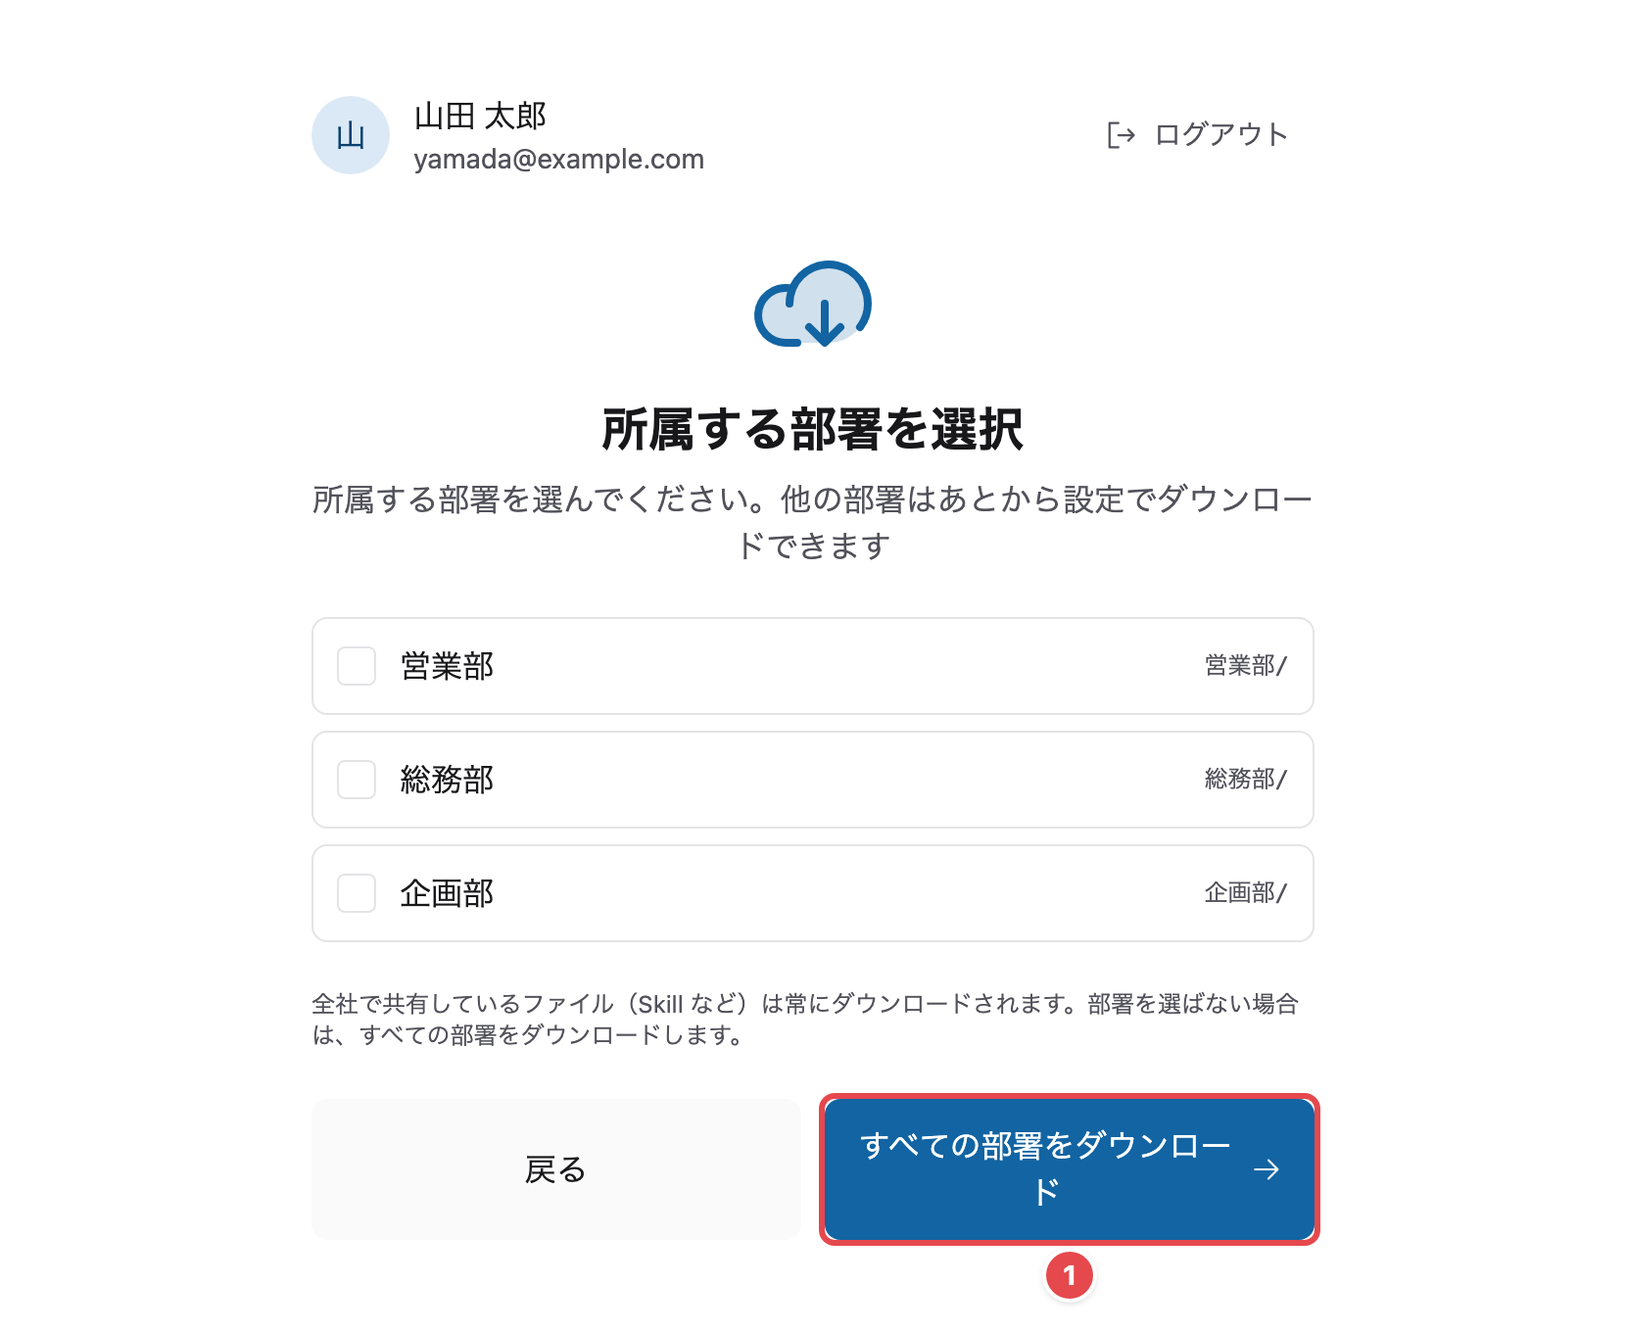
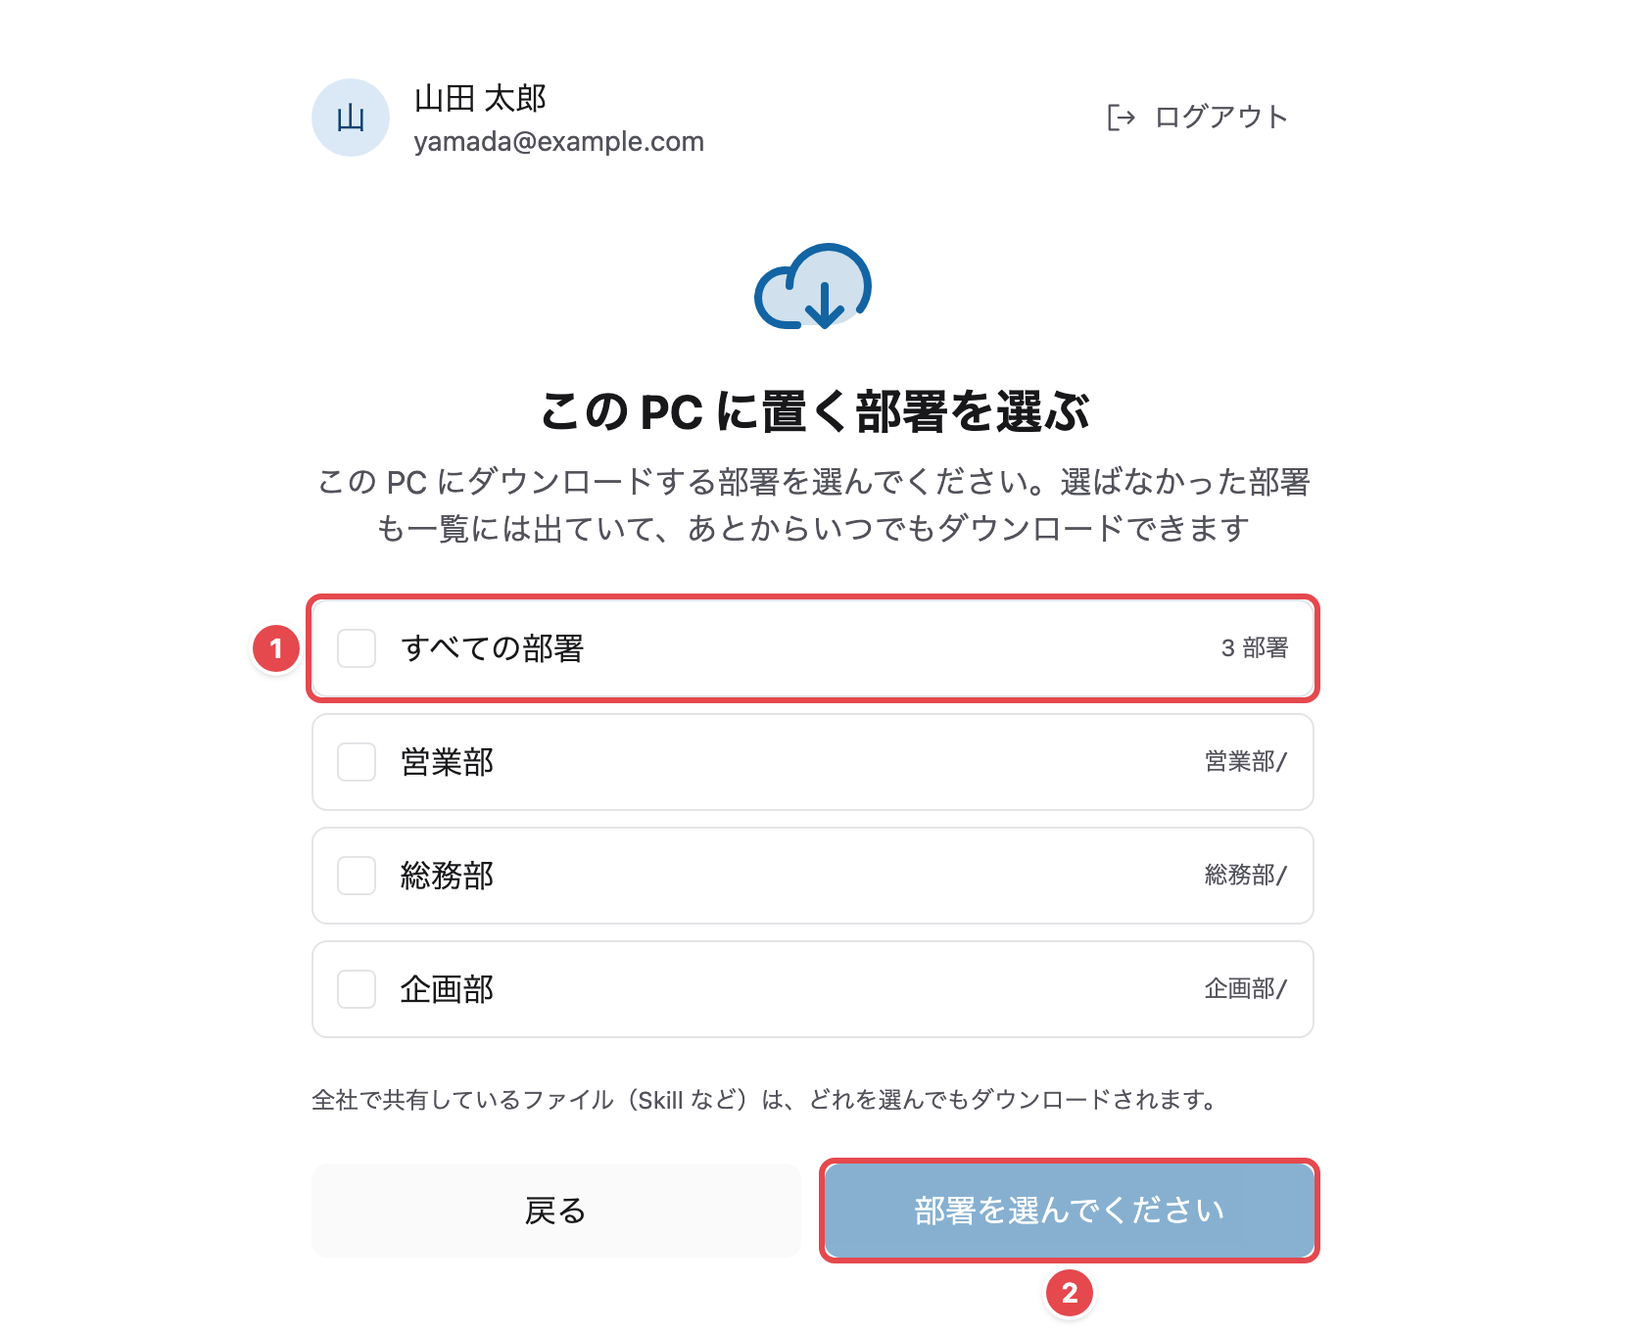
fix(company): the first setup asks which departments to put on this PC; すべて is an explicit choice, nothing chosen never means everything
Claude-Session: https://claude.ai/code/session_012UHLwU9BSxnqtSHxSVziux

diff --git a/client/src/features/company/components/DepartmentPicker.tsx b/client/src/features/company/components/DepartmentPicker.tsx
@@ -1,61 +1,38 @@
 import { useState } from 'react'
 import { ArrowRight, Check, CloudArrowDown } from '@phosphor-icons/react'
-import type { PickableDepartment } from '../model'
+import { NOTHING_PICKED, pickedDownload, togglePick, type DepartmentPick, type PickableDepartment } from '../model'
 import { BACK_BUTTON, ScreenHeading } from './SelectorParts'
 
 /**
- * Which departments a first setup downloads; the rest can be added later in
- * settings. Rendered only while shown, so every visit starts with none picked.
+ * Which departments a first setup puts on this PC; the rest can be added later. 「すべての部署」 is a
+ * choice of its own: with nothing chosen the button waits (never 「すべて」 by itself). Rendered only
+ * while shown, so every visit starts with nothing chosen.
  */
 export function DepartmentPicker({ departments, onBack, onDownload }: {
   departments: PickableDepartment[]
   onBack: () => void
-  /** The picked folders in the list's order; none picked = everything. */
-  onDownload: (folders: string[]) => void
+  /** 'all' = every department; else the chosen folders in the list's order. */
+  onDownload: (folders: 'all' | string[]) => void
 }) {
-  const [picked, setPicked] = useState<Set<string>>(() => new Set())
-
-  function toggle(folder: string) {
-    setPicked(prev => {
-      const next = new Set(prev)
-      if (next.has(folder)) next.delete(folder)
-      else next.add(folder)
-      return next
-    })
-  }
+  const [pick, setPick] = useState<DepartmentPick>(NOTHING_PICKED)
+  const download = pickedDownload(departments, pick)
 
   return (
     <div className="space-y-6">
-      <ScreenHeading icon={CloudArrowDown} title="所属する部署を選択">
-        所属する部署を選んでください。他の部署はあとから設定でダウンロードできます
+      <ScreenHeading icon={CloudArrowDown} title="この PC に置く部署を選ぶ">
+        この PC にダウンロードする部署を選んでください。選ばなかった部署も一覧には出ていて、あとからいつでもダウンロードできます
       </ScreenHeading>
 
-      <div className="space-y-2 max-h-80 overflow-y-auto">
-        {departments.map(dept => {
-          const isPicked = picked.has(dept.folder)
-          return (
-            <button
-              key={dept.id}
-              onClick={() => toggle(dept.folder)}
-              aria-pressed={isPicked}
-              className={`w-full flex items-center gap-3 p-3 rounded-control border transition-colors text-left ${
-                isPicked ? 'border-primary bg-selected-bg' : 'border-[color:var(--color-border)] hover:border-selected-border'
-              }`}
-            >
-              <div className={`w-5 h-5 rounded-small border flex items-center justify-center flex-shrink-0 ${
-                isPicked ? 'bg-primary border-primary' : 'border-[color:var(--color-border)]'
-              }`}>
-                {isPicked && <Check size={14} className="text-on-primary" weight="bold" />}
-              </div>
-              <span className="flex-1 text-text">{dept.name}</span>
-              <span className="text-xs text-text-muted font-mono">{dept.folder}/</span>
-            </button>
-          )
-        })}
+      <div role="group" aria-label="この PC に置く部署" className="space-y-2 max-h-80 overflow-y-auto">
+        <Option label="すべての部署" detail={`${departments.length} 部署`} picked={pick.all} onPress={() => setPick(p => togglePick(p, 'all'))} />
+        {departments.map(dept => (
+          <Option key={dept.id} label={dept.name} detail={`${dept.folder}/`} mono picked={!pick.all && pick.folders.has(dept.folder)}
+            onPress={() => setPick(p => togglePick(p, dept.folder))} />
+        ))}
       </div>
 
       <p className="text-xs text-text-muted">
-        全社で共有しているファイル（Skill など）は常にダウンロードされます。部署を選ばない場合は、すべての部署をダウンロードします。
+        全社で共有しているファイル（Skill など）は、どれを選んでもダウンロードされます。
       </p>
 
       <div className="flex gap-3">
@@ -63,15 +40,37 @@ export function DepartmentPicker({ departments, onBack, onDownload }: {
           戻る
         </button>
         <button
-          onClick={() => onDownload(departments.map(d => d.folder).filter(f => picked.has(f)))}
-          className="flex-1 flex items-center justify-center gap-2 bg-primary hover:bg-primary-hover text-on-primary rounded-control px-4 py-3 transition-colors"
+          disabled={download === null}
+          onClick={() => { if (download !== null) onDownload(download) }}
+          className="flex-1 flex items-center justify-center gap-2 bg-primary enabled:hover:bg-primary-hover text-on-primary rounded-control px-4 py-3 transition-colors disabled:opacity-disabled disabled:cursor-not-allowed"
         >
-          {picked.size > 0
-            ? `選んだ部署をダウンロード（${picked.size}）`
-            : 'すべての部署をダウンロード'}
-          <ArrowRight size={18} />
+          {download === 'all' ? 'すべての部署をダウンロード'
+            : download ? `選んだ部署をダウンロード（${download.length}）`
+            : '部署を選んでください'}
+          {download !== null && <ArrowRight size={18} />}
         </button>
       </div>
     </div>
+  )
+}
+
+function Option({ label, detail, mono, picked, onPress }: { label: string; detail: string; mono?: boolean; picked: boolean; onPress: () => void }) {
+  return (
+    <button
+      type="button"
+      onClick={onPress}
+      aria-pressed={picked}
+      className={`w-full flex items-center gap-3 p-3 rounded-control border transition-colors text-left ${
+        picked ? 'border-primary bg-selected-bg' : 'border-[color:var(--color-border)] hover:border-selected-border'
+      }`}
+    >
+      <div className={`w-5 h-5 rounded-small border flex items-center justify-center flex-shrink-0 ${
+        picked ? 'bg-primary border-primary' : 'border-[color:var(--color-border)]'
+      }`}>
+        {picked && <Check size={14} className="text-on-primary" weight="bold" />}
+      </div>
+      <span className="flex-1 text-text">{label}</span>
+      <span className={`text-xs text-text-muted ${mono ? 'font-mono' : ''}`}>{detail}</span>
+    </button>
   )
 }

diff --git a/client/tests/manual/scenes.ts b/client/tests/manual/scenes.ts
@@ -337,7 +337,7 @@ export const scenes: Scene[] = [
   // ── 3章 自分の部署を選ぶ ─────────────────────────────────────────────────
   {
     id: 'setup-department-picker',
-    about: '「所属する部署を選択」 with 営業部 checked and the download button.',
+    about: '「この PC に置く部署を選ぶ」 with 営業部 checked and the download button.',
     ...SELECTOR,
     steps: [
       { click: 'role=button[name=/^検証A社/]' },
@@ -347,23 +347,26 @@ export const scenes: Scene[] = [
       { click: 'role=button[name=/^営業部/]' },
     ],
     annotations: [
-      { marker: { target: 'text=所属する部署を選んでください', label: '1', at: 'left' } },
+      { marker: { target: 'text=この PC にダウンロードする部署を選んでください', label: '1', at: 'left' } },
       { box: 'role=button[name=/^営業部/]' }, { marker: { target: 'role=button[name=/^営業部/]', label: '2', at: 'left' } },
       { box: 'role=button[name=/^選んだ部署をダウンロード/]' }, { marker: { target: 'role=button[name=/^選んだ部署をダウンロード/]', label: '3', at: 'below' } },
     ],
   },
   {
     id: 'setup-department-none',
-    about: 'Nothing checked: the button says すべての部署をダウンロード.',
+    about: 'Nothing chosen: 「すべての部署」 is a choice of its own, and the button waits (「部署を選んでください」).',
     ...SELECTOR,
     steps: [
       { click: 'role=button[name=/^検証A社/]' },
       { click: 'role=button[name=/^新しく作成/]' },
       { click: 'role=button[name=/^フォルダを選択/]' },
       { click: 'role=button[name=/^開始/]' },
-      { waitFor: 'text=所属する部署を選んでください' },
+      { waitFor: 'text=この PC にダウンロードする部署を選んでください' },
     ],
-    annotations: [{ box: 'role=button[name=/^すべての部署をダウンロード/]' }, { marker: { target: 'role=button[name=/^すべての部署をダウンロード/]', label: '1', at: 'below' } }],
+    annotations: [
+      { box: 'role=button[name=/^すべての部署 /]' }, { marker: { target: 'role=button[name=/^すべての部署 /]', label: '1', at: 'left' } },
+      { box: 'role=button[name=/^部署を選んでください/]' }, { marker: { target: 'role=button[name=/^部署を選んでください/]', label: '2', at: 'below' } },
+    ],
   },
   {
     id: 'setup-progress',

diff --git a/client/src/features/company/model.test.ts b/client/src/features/company/model.test.ts
@@ -2,7 +2,7 @@
 // which departments download without asking.
 import { test } from 'node:test'
 import assert from 'node:assert/strict'
-import { companyToOpenWithoutChoosing, membershipFolders, offersCompanyCreation, type PickableDepartment } from './model.ts'
+import { companyToOpenWithoutChoosing, membershipFolders, NOTHING_PICKED, offersCompanyCreation, pickedDownload, togglePick, type PickableDepartment } from './model.ts'
 
 const departments: PickableDepartment[] = [
   { id: 'd-sales', name: '営業部', folder: '営業部' },
@@ -34,4 +34,18 @@ test('「新しい会社を作成」 is hidden only when the server says the acc
   assert.equal(offersCompanyCreation({ canCreateCompany: true }), true)
   // An older server sends no answer: offered as before (the server still refuses).
   assert.equal(offersCompanyCreation({}), true)
+})
+
+test('この PC に置く部署: nothing chosen downloads nothing yet (never 「すべて」); 「すべて」 is its own choice', () => {
+  const depts: PickableDepartment[] = [{ id: 'a', name: '営業部', folder: '営業部' }, { id: 'b', name: '総務部', folder: '総務部' }]
+  assert.equal(pickedDownload(depts, NOTHING_PICKED), null)
+  const all = togglePick(NOTHING_PICKED, 'all')
+  assert.equal(pickedDownload(depts, all), 'all')
+  // Choosing a department leaves 「すべて」; the list's order, whatever the order of the presses.
+  const some = togglePick(togglePick(all, '総務部'), '営業部')
+  assert.deepEqual(pickedDownload(depts, some), ['営業部', '総務部'])
+  assert.equal(pickedDownload(depts, togglePick(togglePick(togglePick(NOTHING_PICKED, '営業部'), '営業部'), '総務部'))?.toString(), '総務部')
+  // 「すべて」 after some: everything, the single picks dropped; pressed again: nothing chosen.
+  assert.equal(pickedDownload(depts, togglePick(some, 'all')), 'all')
+  assert.equal(pickedDownload(depts, togglePick(togglePick(some, 'all'), 'all')), null)
 })

diff --git a/client/src/features/company/model.ts b/client/src/features/company/model.ts
@@ -25,6 +25,30 @@ export interface PickableDepartment {
   folder: string
 }
 
+/**
+ * What the first setup's 「この PC に置く部署」 has chosen: every department (an explicit choice), some, or
+ * nothing yet. Nothing chosen is never read as 「すべて」 (UX review 2026-11-28): the setup waits for a choice.
+ */
+export type DepartmentPick = { all: true } | { all: false; folders: ReadonlySet<string> }
+
+export const NOTHING_PICKED: DepartmentPick = { all: false, folders: new Set() }
+
+/** A press on 「すべての部署」 (`'all'`) or on one department: choosing one leaves 「すべて」, and the other way round. */
+export function togglePick(pick: DepartmentPick, press: 'all' | string): DepartmentPick {
+  if (press === 'all') return pick.all ? NOTHING_PICKED : { all: true }
+  const folders = new Set(pick.all ? [] : pick.folders)
+  if (folders.has(press)) folders.delete(press)
+  else folders.add(press)
+  return { all: false, folders }
+}
+
+/** What the download button does: every department, these folders in the list's order, or nothing yet (disabled). */
+export function pickedDownload(departments: readonly PickableDepartment[], pick: DepartmentPick): 'all' | string[] | null {
+  if (pick.all) return 'all'
+  const folders = departments.map(d => d.folder).filter(f => pick.folders.has(f))
+  return folders.length > 0 ? folders : null
+}
+
 /** Departments the picker offers: root folders only (a sparse exclusion is per root folder here). */
 export function pickableDepartments(departments: DepartmentInfo[]): PickableDepartment[] {
   return departments

diff --git a/client/src/features/company/components/CompanySelector.tsx b/client/src/features/company/components/CompanySelector.tsx
@@ -198,7 +198,8 @@ export function CompanySelector() {
           <DepartmentPicker
             departments={picker.departments}
             onBack={() => setView(picker.backView)}
-            onDownload={folders => startSetup(selected, picker.folder, folders, 'firstSetup')}
+            // 「すべての部署」 is the setup's full download (no folder list); a list downloads only those.
+            onDownload={folders => startSetup(selected, picker.folder, folders === 'all' ? [] : folders, 'firstSetup')}
           />
         )}
 

diff --git a/manual/pages/03-busho-wo-erabu.md b/manual/pages/03-busho-wo-erabu.md
@@ -46,17 +46,17 @@ Dropbox を入れたとき、PC の空きがみるみる減って、「容量が
 
 ほとんどの人は、何も選ばなくて大丈夫です。招待のときに「営業部のメンバーとして参加します」と出ていましたね。このように所属する部署が決まっていれば、ACB はその部署のファイルを自動で入れます。
 
-所属する部署がまだ決まっていないときは、「所属する部署を選択」という画面が出ます。
+所属する部署がまだ決まっていないときは、「この PC に置く部署を選ぶ」という画面が出ます。
 
-![所属する部署を選ぶ画面。①案内の文、②自分の部署（営業部）のチェック、③［選んだ部署をダウンロード（1）］](../images/setup-department-picker.png)
+![この PC に置く部署を選ぶ画面。①案内の文、②自分の部署（営業部）のチェック、③［選んだ部署をダウンロード（1）］](../images/setup-department-picker.png)
 
-画面には①のとおり「所属する部署を選んでください。他の部署はあとから設定でダウンロードできます」と書いてあります。
+画面には①のとおり「この PC にダウンロードする部署を選んでください。選ばなかった部署も一覧には出ていて、あとからいつでもダウンロードできます」と書いてあります。
 
 ふだん仕事で使う部署（②）を押してチェックを入れ、③の［選んだ部署をダウンロード（1）］を押してください。かっこの中の数字は、選んだ部署の数です。
 
-ここで1つだけ気をつけたいことがあります。**何もチェックを入れないと、ボタンが［すべての部署をダウンロード］に変わります。** そのまま押すと、全部の部署が PC に入ってきます。自分の部署に1つチェックを入れてから押しましょう。
+全部の部署を PC に入れたいときは、一覧のいちばん上の「すべての部署」（下の写真の①）を選ぶと、ボタンが［すべての部署をダウンロード］になります。何も選んでいないあいだは、ボタンは［部署を選んでください］（②）のままで押せません。知らないうちに全部の部署が入ってくることはありません。
 
-![何もチェックを入れていないときの画面。①ボタンが［すべての部署をダウンロード］になっている](../images/setup-department-none.png)
+![何も選んでいないときの画面。①「すべての部署」、②押せないボタン［部署を選んでください］](../images/setup-department-none.png)
 
 迷う必要はありません。あとから部署を足すことも外すこともできるので、まずは「いちばんよく使う部署」を選べば十分です。
 
@@ -98,8 +98,8 @@ Dropbox を入れたとき、PC の空きがみるみる減って、「容量が
 
 - ACB は、会社のファイルを全部 PC に入れるわけではありません。PC に入るのは、あなたの部署のファイルと、全社で共有しているファイルです。
 - PC に入れていない部署も、名前は一覧に出ます（「未ダウンロード」）。中身はサーバーにあります。
-- 所属する部署が決まっていれば、自動で入ります。「所属する部署を選択」が出たら、自分の部署にチェックを入れて［選んだ部署をダウンロード（1）］を押します。
-- 何も選ばないと［すべての部署をダウンロード］になるので気をつけましょう。
+- 所属する部署が決まっていれば、自動で入ります。「この PC に置く部署を選ぶ」が出たら、自分の部署にチェックを入れて［選んだ部署をダウンロード（1）］を押します。
+- 全部の部署を入れたいときだけ「すべての部署」を選びます。何も選ばないうちは始まりません。
 - はじめの準備は最初の1回だけです。「ダウンロード中…」の数字が増えていれば進んでいます。
 - ほかの部署は、あとからいつでも PC に入れられます。
 

diff --git a/.claude/rules/download-choices.md b/.claude/rules/download-choices.md
@@ -55,12 +55,16 @@ Background and the rejected cone-mode design: `docs/architecture/download-choice
   (the member's own files there) lands on the folder choice with the reason. Tests:
   `src/features/company/model.test.ts`, `tests/ui/company-selector.spec.ts` 「one company…」,
   `tests/ipc-app.test.ts` 「first setup without choices…」.
-- In a **fresh folder** the member picks departments first (`CompanySelector`:
-  「所属する部署を選んでください。他の部署はあとから設定でダウンロードできます」). Then
+- In a **fresh folder** the member picks departments first (`DepartmentPicker`, 「この PC に置く部署を選ぶ」:
+  it decides what this PC downloads, not who belongs — UX review 2026-11-28). 「すべての部署」 is an
+  option of its own at the top; choosing a department leaves it and the other way round
+  (`togglePick` / `pickedDownload` in `features/company/model.ts`). **Nothing chosen downloads nothing
+  yet**: the button says 「部署を選んでください」 and is disabled — it is never read as 「すべて」. Then
   `git:setupCompanyRemote` → `checkoutSelectedDepartments`: `fetch --filter=blob:none` → persist
   the exclusions (the departments *not* picked) and set the patterns → checkout (downloads only
-  the checked-out blobs, in one batch). Nothing picked → full clone. Existing clones are never
-  converted to partial clones.
+  the checked-out blobs, in one batch). 「すべての部署」 sends no list → full clone (main's contract
+  unchanged). Existing clones are never converted to partial clones. Tests:
+  `src/features/company/model.test.ts`, `tests/ui/company-selector.spec.ts` 「「すべての部署」 is chosen on purpose…」.
 - Both selector paths (「既存のフォルダを開く」 = the folder, 「新しく作成」 = `<folder>/<company>`)
   first ask `git:inspectCompanyFolder` (`sync/company-folder.ts`, read-only; renderer
   `src/features/company/folderPlan.ts`):
